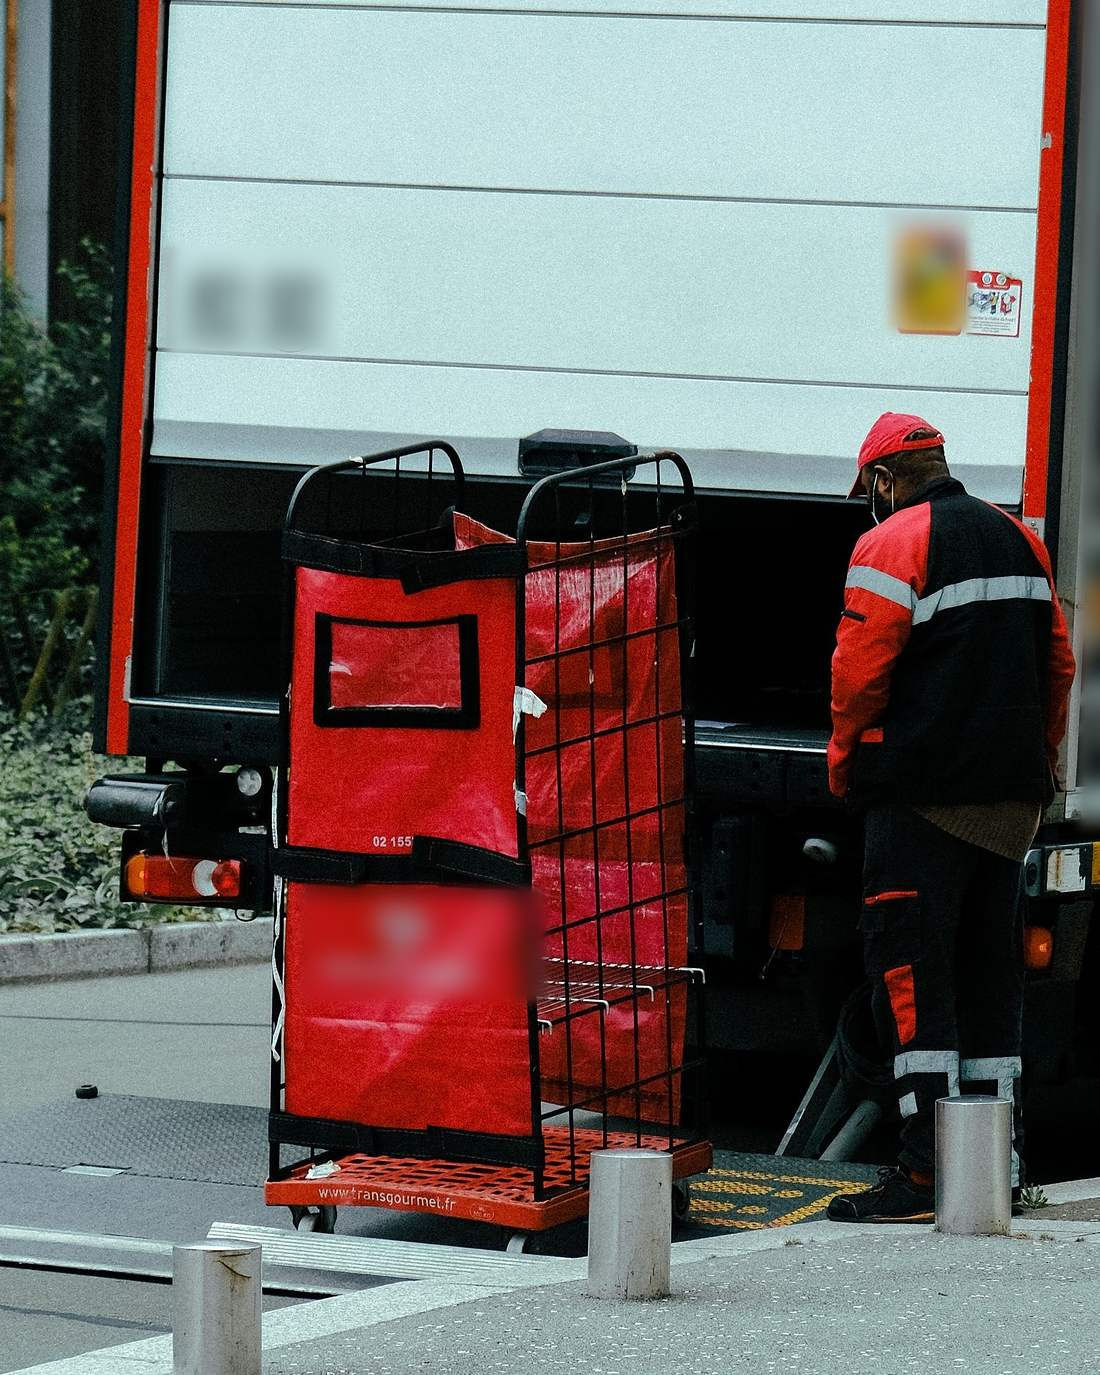
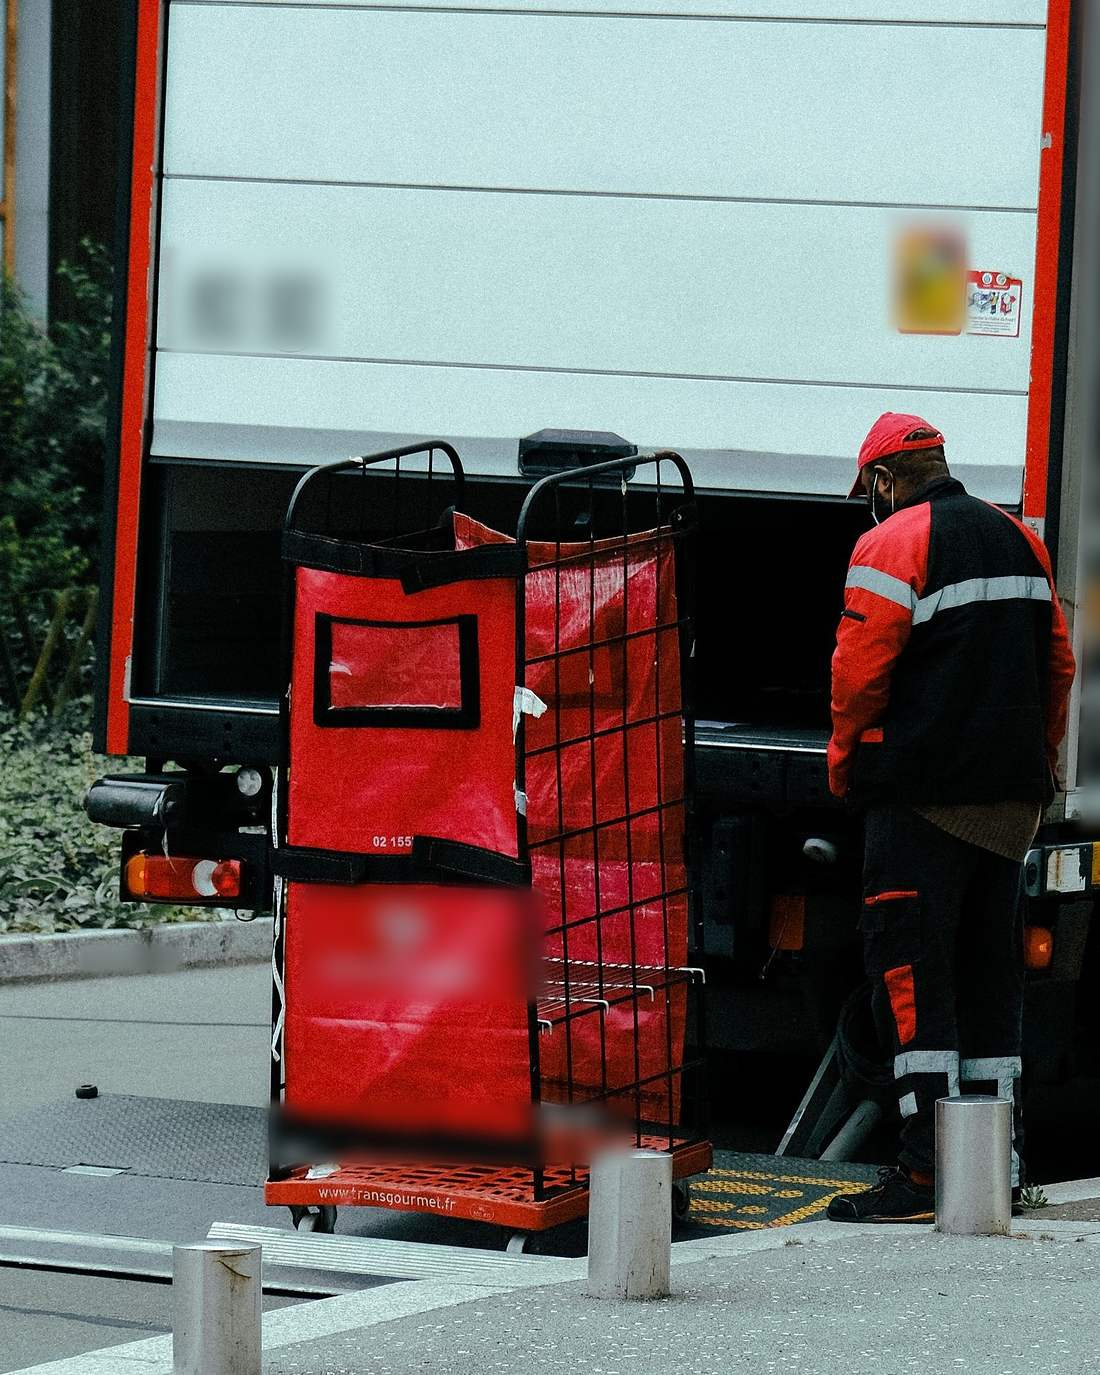
v10 미리보기: 큰 사진·큰 글자 잡지식 배치 (noindex)
Claude-Session: https://claude.ai/code/session_01XJQs3AHenE1AnYnEEKohTR

Changed region(s): [[0.2164, 0.7942, 0.5873, 0.8553], [0.1236, 0.672, 0.1545, 0.7025]]

diff --git a/v10/index.html b/v10/index.html
@@ -1,0 +1,240 @@
+<!doctype html>
+<html lang="ko"><head><meta name="robots" content="noindex, nofollow"><meta charset="utf-8">
+<meta name="description" content="흔들림은 줄이고, 안전은 난간대까지. 전 차종 무진동·리프트·안전난간대. 대표 직통 010-5256-2425">
+<meta name="format-detection" content="telephone=no">
+
+<meta property="og:type" content="website">
+<meta property="og:title" content="특수화물무진동24 · 특수화물 무진동 운송">
+<meta property="og:description" content="흔들림은 줄이고, 안전은 난간대까지. 전 차종 무진동·리프트·안전난간대. 대표 직통 010-5256-2425">
+<meta property="og:image" content="https://ddggdd-dev.github.io/naratrans/v10/img/ref-v10-hero.jpg">
+<script type="application/ld+json">{"@context":"https://schema.org","@type":"MovingCompany","name":"특수화물무진동24","alternateName":"나라트랜스","description":"무진동 차량, 리프트, 안전난간대로 의료장비·반도체 장비·서버 등 특수화물을 운송합니다.","telephone":"+82-10-5256-2425","email":"kjs242424@gmail.com","areaServed":"KR","founder":{"@type":"Person","name":"김준수"}}</script>
+<link rel="stylesheet" href="https://cdn.jsdelivr.net/gh/orioncactus/pretendard@v1.3.9/dist/web/variable/pretendardvariable-dynamic-subset.min.css">
+<!-- v10 (2026-10-29 성식 "아직도 그저 그래"): 템플릿 티(칩 배지, 똑같은 카드 8개, 체크 목록)를 걷어내고 컨셉 하나로 — "흔들림은 줄이고, 안전은 난간대까지".
+     화면 전체를 큰 사진 + 큰 글자의 잡지식 배치로. 움직임은 첫 화면 사진이 아주 천천히 다가오는 것 하나(동작 줄이기 설정이면 멈춤).
+     내용·사실은 v7~v9와 같음(사장님 요구사항 목록). -->
+<style>
+:root{--ink:#0B1626;--body:#3F4C60;--muted:#5A6779;--line:#E4E8EE;--soft:#F3F5F8;--blue:#1652F0;--blue-d:#0E3FC0;
+--f:"Pretendard Variable",Pretendard,"Apple SD Gothic Neo","Malgun Gothic",sans-serif;--w:1200px;color-scheme:light}
+*{box-sizing:border-box}
+html{scroll-behavior:smooth}
+@media (prefers-reduced-motion:reduce){html{scroll-behavior:auto}}
+body{margin:0;background:#fff;color:var(--ink);font-family:var(--f);font-size:1.0625rem;line-height:1.7;word-break:keep-all;overflow-wrap:anywhere;-webkit-font-smoothing:antialiased}
+img{max-width:100%;height:auto;display:block}
+a{color:inherit}
+h1,h2,h3{margin:0;letter-spacing:-.035em}
+p{margin:0}
+.wrap{max-width:var(--w);margin:0 auto;padding:0 20px}
+.tel{white-space:nowrap;font-variant-numeric:tabular-nums}
+.ref{position:absolute;right:14px;bottom:14px;z-index:2;font-size:.8125rem;line-height:1;padding:6px 10px;border-radius:99px;background:rgba(11,22,38,.5);color:#fff}
+.blank{background:rgba(240,128,40,.16);outline:1.5px dashed #E07A2C;outline-offset:-1px;padding:0 .35em}
+.ph{display:none!important}
+body.review .ph{display:block!important}
+body.review span.ph{display:inline!important}
+
+/* 머리: 첫 화면 위에 투명하게 */
+.top{position:absolute;inset:0 0 auto;z-index:20}
+.top .wrap{display:flex;justify-content:space-between;align-items:center;min-height:76px}
+.brand{text-decoration:none;display:flex;flex-direction:column;justify-content:center;min-height:48px;line-height:1.15}
+.brand b{font-size:1.25rem;font-weight:800;letter-spacing:-.03em}
+.brand small{font-size:.8125rem;color:var(--muted)}
+.nav{display:flex;align-items:center;gap:26px}
+.nav a.m{text-decoration:none;font-weight:600;font-size:.9375rem}
+@media (max-width:860px){.nav a.m{display:none}}
+.nav .call{text-decoration:none;font-weight:700;font-size:.9375rem;display:inline-flex;align-items:center;min-height:44px;padding:0 18px;border-radius:99px;background:rgba(255,255,255,.75);-webkit-backdrop-filter:blur(8px);backdrop-filter:blur(8px)}
+
+/* 첫 화면: 사진 가득 + 하늘 자리에 큰 글자 */
+.hero{position:relative;height:min(100svh,880px);min-height:620px;overflow:hidden;background:#E9ECEC}
+.hero .pic{position:absolute;inset:0}
+.hero picture,.hero picture img{position:absolute;inset:0;width:100%;height:100%}
+.hero picture img{object-fit:cover;object-position:50% 70%;animation:drift 24s ease-out both}
+@keyframes drift{from{transform:scale(1.08)}to{transform:scale(1)}}
+@media (prefers-reduced-motion:reduce){.hero picture img{animation:none}}
+.hero::after{content:"";position:absolute;inset:0;background:linear-gradient(180deg,rgba(255,255,255,.92) 0%,rgba(255,255,255,.6) 30%,rgba(255,255,255,0) 52%)}
+.hero .wrap{position:relative;z-index:3;padding-top:132px}
+.hero .over{font-size:1rem;font-weight:700;color:var(--blue-d)}
+.hero h1{font-size:clamp(2.5rem,1.4rem + 4.4vw,5.25rem);line-height:1.08;font-weight:800;margin-top:14px}
+.hero h1 span{color:var(--blue)}
+.hero .cta{position:absolute;left:0;right:0;bottom:36px;z-index:3}
+.hero .cta .wrap{padding-top:0;display:flex;flex-wrap:wrap;gap:12px;align-items:center}
+.btn{display:inline-flex;align-items:center;justify-content:center;min-height:58px;padding:0 28px;border-radius:16px;font:inherit;font-weight:700;text-decoration:none;cursor:pointer;border:0}
+.btn-call{background:var(--blue);color:#fff;font-size:1.125rem;box-shadow:0 14px 30px -12px rgba(22,82,240,.7)}
+.btn-call:hover{background:var(--blue-d)}
+.btn-glass{background:rgba(255,255,255,.82);color:var(--ink);-webkit-backdrop-filter:blur(8px);backdrop-filter:blur(8px)}
+@media (max-width:700px){
+  .hero{height:auto;min-height:0;background:#fff}
+  .hero .pic{position:relative;aspect-ratio:4/5}
+  .hero::after{display:none}
+  .hero .wrap{padding-top:28px}
+  .hero .cta{position:static;margin:24px 0 8px}
+  .hero .btn-glass{background:var(--soft)}
+  .top{position:absolute}
+}
+
+/* 큰 문장 */
+.statement{padding:120px 0 96px}
+.statement p.big{font-size:clamp(1.75rem,1.1rem + 2.6vw,3.25rem);font-weight:800;line-height:1.3;letter-spacing:-.035em;max-width:20em}
+.statement p.big em{font-style:normal;color:var(--blue)}
+.facts{margin-top:56px;display:grid;grid-template-columns:repeat(2,1fr);gap:0;border-top:1px solid var(--ink)}
+@media (min-width:900px){.facts{grid-template-columns:repeat(4,1fr)}}
+.facts div{padding:22px 16px 0 0}
+.facts b{display:block;font-size:clamp(1.375rem,1rem + 1.2vw,2rem);font-weight:800;letter-spacing:-.03em}
+.facts span{font-size:.9375rem;color:var(--muted)}
+@media (max-width:640px){.statement{padding:72px 0 64px}}
+
+/* 리프트·난간대: 넓은 사진 위에 글 상자 */
+.lift{position:relative}
+.lift figure{margin:0;position:relative}
+.lift img{width:100%;aspect-ratio:16/8;object-fit:cover;object-position:50% 55%}
+@media (max-width:700px){.lift img{aspect-ratio:4/3}}
+.lift .card{position:relative;z-index:3;background:#fff;border-radius:28px;padding:36px 32px;max-width:560px;margin:-120px 0 0 max(20px,calc((100vw - var(--w))/2 + 20px));box-shadow:0 30px 60px -30px rgba(11,22,38,.35)}
+@media (max-width:700px){.lift .card{margin:-48px 16px 0;padding:28px 22px}}
+.kick{font-size:.9375rem;font-weight:800;color:var(--blue)}
+.lift h2,.sec h2{font-size:clamp(1.75rem,1.2rem + 2vw,2.875rem);font-weight:800;line-height:1.2;margin-top:10px}
+.lift p.d{margin-top:14px;color:var(--body)}
+.lift .law{margin-top:14px;font-size:.875rem;color:var(--muted)}
+.lift .law a{color:var(--muted);display:inline-block;padding:10px 0}
+
+/* 옮기는 것: 큰 사진 가로 넘김 */
+.sec{padding:120px 0 40px}
+.sec .row{display:flex;justify-content:space-between;align-items:end;gap:16px;flex-wrap:wrap}
+.sec .row p{color:var(--muted)}
+.rail{list-style:none;margin:40px 0 0;padding:0 20px 24px max(20px,calc((100vw - var(--w))/2 + 20px));display:grid;grid-auto-flow:column;grid-auto-columns:minmax(260px,30%);gap:18px;overflow-x:auto;scroll-snap-type:x mandatory;-webkit-overflow-scrolling:touch;scrollbar-width:thin}
+@media (max-width:700px){.rail{grid-auto-columns:78%}}
+.rail li{scroll-snap-align:start}
+.rail figure{margin:0;position:relative;border-radius:24px;overflow:hidden}
+.rail img{width:100%;aspect-ratio:4/5;object-fit:cover}
+.rail figure::after{content:"";position:absolute;inset:0;background:linear-gradient(180deg,rgba(0,0,0,0) 50%,rgba(0,0,0,.6) 100%)}
+.rail .cap{position:absolute;left:20px;right:20px;bottom:18px;z-index:2;color:#fff}
+.rail h3{font-size:1.375rem;font-weight:800}
+.rail .cap p{font-size:.9375rem;color:#E8EDF3;margin-top:2px}
+.rail .ref{top:14px;bottom:auto}
+.hint{font-size:.875rem;color:var(--muted);margin-top:8px}
+
+/* 무진동 차량 */
+.fleet{padding:96px 0 120px}
+.fleet .grid{display:grid;gap:40px;align-items:center}
+@media (min-width:960px){.fleet .grid{grid-template-columns:6fr 5fr;gap:72px}}
+.fleet figure{margin:0;position:relative;border-radius:28px;overflow:hidden}
+.fleet figure img{width:100%;aspect-ratio:4/3;object-fit:cover}
+.spec{margin-top:24px;border-top:1px solid var(--ink)}
+.spec div{display:flex;justify-content:space-between;gap:16px;padding:16px 0;border-bottom:1px solid var(--line)}
+.spec dt{font-weight:700}
+.spec dd{margin:0;color:var(--body);text-align:right}
+
+/* 연락 */
+.contact{background:var(--ink);color:#fff;padding:112px 0 120px}
+.contact .over{font-weight:700;color:#8FB0FF}
+.contact h2{font-size:clamp(2rem,1.3rem + 2.8vw,3.5rem);font-weight:800;line-height:1.15;margin-top:12px}
+.contact .tel-big{display:inline-block;margin-top:28px;font-size:clamp(2.5rem,1.6rem + 3.6vw,4.5rem);font-weight:800;letter-spacing:-.02em;text-decoration:none;line-height:1.05;padding:4px 0}
+.contact .who{margin-top:14px;color:#AFC0D8;font-size:.9375rem}
+.contact .who a{color:#fff}
+.contact .acts{display:flex;flex-wrap:wrap;gap:12px;margin-top:32px}
+.contact .btn-line{background:rgba(255,255,255,.1);color:#fff}
+.contact .slogan{margin-top:48px;font-size:1.25rem;font-weight:700;color:#DCE6F5}
+footer{background:#07101C;color:#8D99AA;font-size:.8125rem;padding:24px 0 110px}
+footer p+p{margin-top:4px}
+.review-t{margin-top:12px;min-height:44px;padding:0 14px;border-radius:10px;font:inherit;font-size:.8125rem;background:rgba(255,255,255,.06);border:0;color:#C9D0D6;cursor:pointer}
+@media (min-width:1080px){footer{padding-bottom:40px}}
+.callbar{position:fixed;left:12px;right:12px;bottom:calc(12px + env(safe-area-inset-bottom,0px));z-index:40;border-radius:18px;background:rgba(11,22,38,.88);-webkit-backdrop-filter:blur(12px);backdrop-filter:blur(12px);padding:8px 10px 8px 18px;transform:translateY(140%);transition:transform .25s}
+.callbar.show{transform:none}
+.callbar a{display:flex;justify-content:space-between;align-items:center;min-height:52px;color:#fff;text-decoration:none;font-size:.9375rem}
+.callbar b{font-size:1.125rem;background:var(--blue);padding:10px 14px;border-radius:12px;white-space:nowrap}
+@media (min-width:1080px){.callbar{display:none}}
+</style>
+
+<meta name="viewport" content="width=device-width, initial-scale=1, viewport-fit=cover"><title>특수화물무진동24 · 특수화물 무진동 운송</title></head><body><header class="top"><div class="wrap">
+  <a class="brand" href="#top"><b>특수화물무진동24</b><small>나라트랜스</small></a>
+  <nav class="nav" aria-label="주요 메뉴"><a class="m" href="#lift">리프트·난간대</a><a class="m" href="#what">옮기는 것</a><a class="m" href="#fleet">차량</a><a class="call" href="tel:010-5256-2425">전화 상담</a></nav>
+</div></header>
+
+<main id="top">
+<section class="hero" aria-labelledby="h1">
+  <div class="pic"><picture><source media="(max-width:700px)" srcset="img/ref-v10-hero-m.jpg"><img src="img/ref-v10-hero.jpg" width="1920" height="1080" alt="햇빛 비치는 도로를 달리는 흰색 화물차" fetchpriority="high"></picture><span class="ref">참고 이미지</span></div>
+  <div class="wrap">
+    <p class="over">특수화물 무진동 운송</p>
+    <h1 id="h1">흔들림은 줄이고,<br><span>안전은 난간대까지</span></h1>
+  </div>
+  <div class="cta"><div class="wrap">
+    <a class="btn btn-call" id="heroCall" href="tel:010-5256-2425">전화 상담&nbsp;<span class="tel">010-5256-2425</span></a>
+    <a class="btn btn-glass" href="#what">옮기는 것 보기</a>
+  </div></div>
+</section>
+
+<section class="statement" aria-label="소개"><div class="wrap">
+  <p class="big">의료장비·반도체 장비부터 슈퍼카·그랜드피아노·유물까지. <em>전복 위험 있는 장비</em>도 무진동 리프트 차로 안전하게 이동·설치합니다.</p>
+  <div class="facts">
+    <div><b>1.4~11톤</b><span>전 차종 무진동 · 리프트</span></div>
+    <div><b>안전난간대</b><span>리프트 위 전복·추락 방지</span></div>
+    <div><b>10억 원</b><span>적재물배상책임보험</span></div>
+    <div><b>전국</b><span>이동 · 설치</span></div>
+  </div>
+</div></section>
+
+<section class="lift" id="lift" aria-labelledby="lift-h">
+  <figure><img src="img/ref-v10-lift-wide.jpg" width="1600" height="1000" alt="화물차 리프트 위에 바퀴 달린 카트를 올리는 작업자" loading="lazy"><span class="ref">참고 이미지</span></figure>
+  <div class="card">
+    <p class="kick">리프트 · 안전난간대</p>
+    <h2 id="lift-h">바퀴 달린 장비도<br>리프트로 그대로</h2>
+    <p class="d">무진동에 리프트를 갖춰도, 난간대가 없으면 사고로 이어질 수 있습니다. 리프트 위에서 장비가 밀리거나 넘어지지 않게, 사람이 떨어지지 않게 안전난간대를 씁니다. 지게차 없는 현장도 됩니다.<span class="ph"> 난간 높이·장착 차량 <span class="blank">확인 중</span></span></p>
+    <p class="law">참고: 산업안전보건기준에 관한 규칙 제43조 — 추락 위험 장소의 안전난간. <a href="https://www.law.go.kr/법령/산업안전보건기준에관한규칙/제43조" target="_blank" rel="noopener">원문</a></p>
+  </div>
+</section>
+
+<section class="sec" id="what" aria-labelledby="what-h">
+  <div class="wrap row"><div><p class="kick">정밀장비 · 고가장비 전문</p><h2 id="what-h">옮기는 것</h2></div><p class="hint">옆으로 넘겨 보세요 →</p></div>
+  <ul class="rail">
+    <li><figure><img src="img/ref-v4-c-medbed.jpg" width="900" height="675" alt="바퀴 달린 병원 침대" loading="lazy"><span class="ref">참고 이미지</span><div class="cap"><h3>의료장비</h3><p>바퀴 달린 의료기기, 바퀴에 실어 움직이는 의료장비</p></div></figure></li>
+    <li><figure><img src="img/ref-v4-c-semi.jpg" width="900" height="675" alt="정밀 생산 장비" loading="lazy"><span class="ref">참고 이미지</span><div class="cap"><h3>반도체 장비 · CNC</h3><p>바퀴 달린 반도체 장비, CNC</p></div></figure></li>
+    <li><figure><img src="img/ref-v4-c-server.jpg" width="900" height="675" alt="서버 랙" loading="lazy"><span class="ref">참고 이미지</span><div class="cap"><h3>서버 · 전산장비</h3><p>전산장비 이전</p></div></figure></li>
+    <li><figure><img src="img/v3-p-crate2.webp" alt="완충재로 감싼 장비" loading="lazy"><span class="ref">참고 이미지</span><div class="cap"><h3>정밀 · 고가장비</h3><p>바퀴 달린 모든 장비</p></div></figure></li>
+    <li><figure><img src="img/ref-v4-c-supercar.jpg" width="900" height="675" alt="스포츠카" loading="lazy"><span class="ref">참고 이미지</span><div class="cap"><h3>슈퍼카 탁송</h3><p>고가 차량</p></div></figure></li>
+    <li><figure><img src="img/ref-v4-c-moto.jpg" width="900" height="675" alt="여러 대의 오토바이" loading="lazy"><span class="ref">참고 이미지</span><div class="cap"><h3>오토바이</h3><p>고가 오토바이, 여러 대</p></div></figure></li>
+    <li><figure><img src="img/ref-v4-c-piano.jpg" width="900" height="675" alt="그랜드피아노" loading="lazy"><span class="ref">참고 이미지</span><div class="cap"><h3>그랜드피아노</h3><p>대형 피아노</p></div></figure></li>
+    <li><figure><img src="img/ref-v4-c-museum.jpg" width="900" height="675" alt="박물관 조각 작품" loading="lazy"><span class="ref">참고 이미지</span><div class="cap"><h3>유물 · 문화재</h3><p>종교단체 그림, 조각 작품</p></div></figure></li>
+  </ul>
+  <div class="wrap"><p class="ph" style="color:var(--muted)">유해화학물질 운반 <span class="blank">허가·교육 증빙 받는 중 — 받으면 추가</span></p></div>
+</section>
+
+<section class="fleet" id="fleet" aria-labelledby="fleet-h"><div class="wrap grid">
+  <figure><img src="img/ref-v9-truck.jpg" width="1400" height="1050" alt="굽은 도로를 달리는 탑차" loading="lazy"><span class="ref">참고 이미지</span></figure>
+  <div>
+    <p class="kick">무진동 차량</p>
+    <h2 id="fleet-h" style="font-size:clamp(1.75rem,1.2rem + 2vw,2.875rem);font-weight:800;line-height:1.2;margin-top:10px">모든 차에<br>무진동과 리프트</h2>
+    <dl class="spec">
+      <div><dt>차급</dt><dd>1.4톤 · 3.5톤 · 5톤 · 11톤</dd></div>
+      <div><dt>전 차종</dt><dd>에어서스펜션 · 리프트</dd></div>
+      <div><dt>5톤 특수무진동</dt><dd>적재함 6.5 m · 리프트 2.1 m</dd></div>
+      <div><dt>항온항습 차량</dt><dd>온도·습도 제어와 기록</dd></div>
+      <div><dt>보험</dt><dd>적재물배상책임보험 10억 원<span class="ph"> · 1건당 한도 <span class="blank">확인 중</span></span></dd></div>
+    </dl>
+  </div>
+</div></section>
+
+<section class="contact" id="contact" aria-labelledby="c-h"><div class="wrap">
+  <p class="over">대표 직통</p>
+  <h2 id="c-h">옮길 장비가 있으면<br>바로 전화 주세요</h2>
+  <a class="tel-big" href="tel:010-5256-2425">010-5256-2425</a>
+  <p class="who">대표 김준수 · <a href="mailto:kjs242424@gmail.com">kjs242424@gmail.com</a> · 전국<span class="ph"> · 사업자등록번호 <span class="blank">받는 중</span></span></p>
+  <div class="acts"><a class="btn btn-line" href="sms:010-5256-2425">문자로 문의</a></div>
+  <p class="slogan">"정성을 다합니다."</p>
+</div></section>
+</main>
+
+<footer><div class="wrap">
+  <p>특수화물무진동24 (나라트랜스) · 대표 김준수 · <span class="tel">010-5256-2425</span></p>
+  <p>사진은 무료 참고 이미지(Unsplash · Pexels)이며 실제 보유 차량·작업 사진이 아닙니다. 마지막 업데이트 2026-10-29.</p>
+  <button type="button" class="review-t draft-only" id="review" aria-pressed="false">사장님 확인용 보기: 받아야 할 정보 자리 표시</button>
+</div></footer>
+
+<div class="callbar" id="callbar"><a href="tel:010-5256-2425" tabindex="-1"><span>대표 직통 상담</span><b>010-5256-2425</b></a></div>
+
+<script>
+(function(){
+  var $=function(i){return document.getElementById(i)};
+  var rv=$('review');function setR(on){document.body.classList.toggle('review',on);rv&&rv.setAttribute('aria-pressed',on?'true':'false')}
+  rv&&rv.addEventListener('click',function(){setR(!document.body.classList.contains('review'))});if(/[?&]review\b/.test(location.search))setR(true);
+  var bar=$('callbar'),hc=$('heroCall');
+  if('IntersectionObserver' in window){new IntersectionObserver(function(es){var v=es[0].isIntersecting;bar.classList.toggle('show',!v);bar.querySelector('a').tabIndex=v?-1:0}).observe(hc)}else bar.classList.add('show');
+})();
+</script>
+</body></html>

diff --git a/v9/index.html b/v9/index.html
@@ -1,11 +1,11 @@
 <!doctype html>
 <html lang="ko"><head><meta name="robots" content="noindex, nofollow"><meta charset="utf-8">
-<meta name="description" content="특수화물, 무진동 차량으로 옮깁니다. 전 차종 무진동·리프트·안전난간대. 대표 직통 010-5256-2425">
+<meta name="description" content="특수화물, 무진동 차량으로 옮깁니다. 대표 직통 010-5256-2425">
 <meta name="format-detection" content="telephone=no">
 
 <meta property="og:type" content="website">
 <meta property="og:title" content="특수화물무진동24 · 특수화물 무진동 운송">
-<meta property="og:description" content="특수화물, 무진동 차량으로 옮깁니다. 전 차종 무진동·리프트·안전난간대. 대표 직통 010-5256-2425">
+<meta property="og:description" content="특수화물, 무진동 차량으로 옮깁니다. 대표 직통 010-5256-2425">
 <meta property="og:image" content="https://ddggdd-dev.github.io/naratrans/v9/img/ref-v9-hero.jpg">
 <script type="application/ld+json">{"@context":"https://schema.org","@type":"MovingCompany","name":"특수화물무진동24","alternateName":"나라트랜스","description":"무진동 차량, 리프트, 안전난간대로 의료장비·반도체 장비·서버 등 특수화물을 운송합니다.","telephone":"+82-10-5256-2425","email":"kjs242424@gmail.com","areaServed":"KR","founder":{"@type":"Person","name":"김준수"}}</script>
 <link rel="stylesheet" href="https://cdn.jsdelivr.net/gh/orioncactus/pretendard@v1.3.9/dist/web/variable/pretendardvariable-dynamic-subset.min.css">
